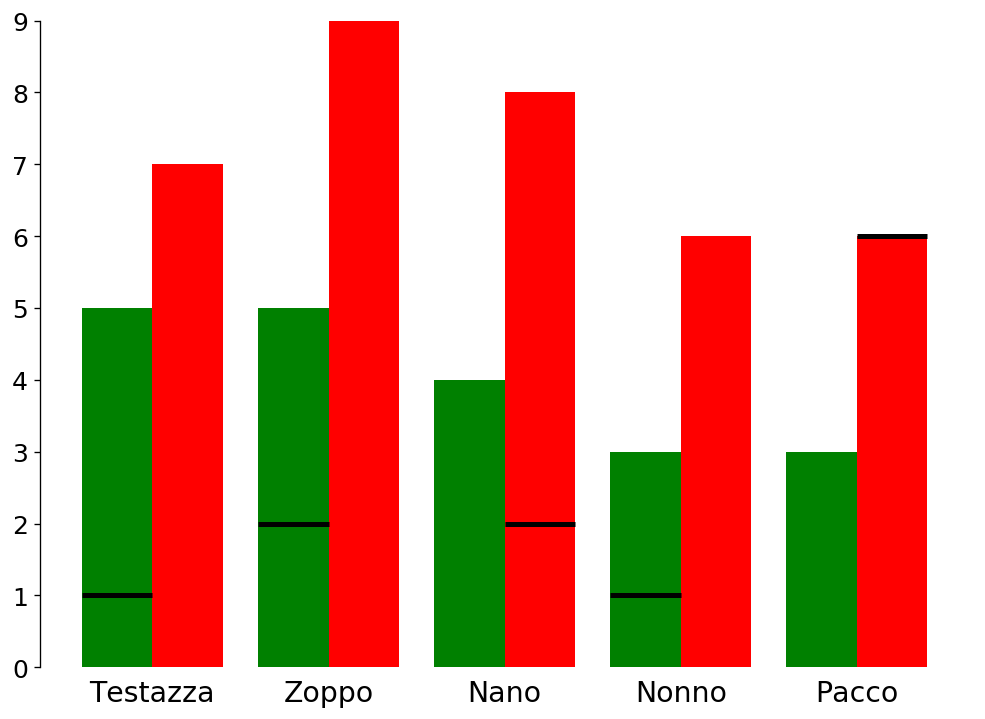
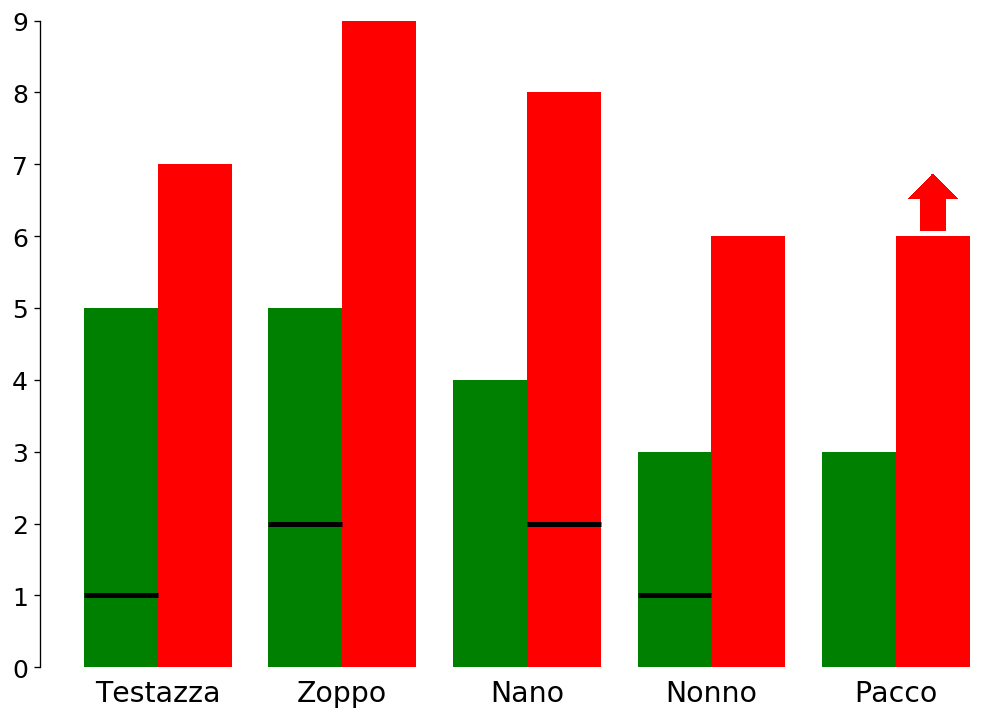
bug on series solved

diff --git a/messina_bet_bot.py b/messina_bet_bot.py
@@ -459,13 +459,11 @@ def play(bot, update, args):
 		return bot.send_message(chat_id=update.message.chat_id,
 								text=message)
 
-	#si guarda se nel DB ci sono ancora scommesse non confermate
 	not_conf_list = dbf.db_select(
 			table='predictions',
 			columns_in=['pred_user', 'pred_team1', 'pred_team2', 'pred_field',
 			            'pred_rawbet'],
 			where='pred_status = "Not Confirmed"')
-    #se è così lo comunico, specificando la scommesse non confermata
 	if not_conf_list:
 		bot.send_message(chat_id=update.message.chat_id,
 						 text='There are still Not Confirmed bets:')
@@ -522,7 +520,6 @@ def play(bot, update, args):
 	# mess_id will be used to update the message
 	mess_id = sent.message_id
 
-	#prende dal DB le scommesse che devono essere giocate e le mette in un tuple
 	matches_to_play = bf.create_matches_to_play(bet_id)
 
 	browser = sf.go_to_lottomatica()
@@ -530,7 +527,6 @@ def play(bot, update, args):
 	count = 0
 	for match in matches_to_play:
 		try:
-			#gioca le varie scommesse presenti in matches_to_play
 			basket_message = sf.add_bet_to_basket(browser, match, count,
 												  dynamic_message)
 			logger.info('PLAY - {}-{}  {} '.format(
@@ -573,15 +569,14 @@ def play(bot, update, args):
 
 	time.sleep(10)
 	money_after = sf.money(browser)
-	c = 1
-    #secondo me quella sotto è una cacata ma Polps non me la spiega
-#	c = count(1)
+	# c = 1
+	c = count(1)
 
 	while c < 10 and money_after != (money_before - euros):
 		logger.info('PLAY - Update budget after playing failed')
 		sf.refresh_money(browser)
 		time.sleep(2)
-		c = c+1
+		# c = c+1
 
 		# Money after playing the bet
 		money_after = sf.money(browser)

diff --git a/Classes.py b/Classes.py
@@ -354,12 +354,12 @@ def series():
 
 	series_pos = sorted([(name, players[name].best_series) for name in
 						 partecipants], key=lambda x: x[1][0], reverse=True)
-	green_arrows = [i for i, g in enumerate(series_pos) if g[1][1] == 'Ongoing']
+	green_arrows = [i for i, g in enumerate(series_pos) if g[1] == 'Ongoing']
 	names = [el[0] for el in series_pos]
 	series_pos = [el[1][0] for el in series_pos]
 
 	series_neg = [players[name].worst_series for name in names]
-	red_arrows = [i for i, g in enumerate(series_neg) if g[1][1] == 'Ongoing']
+	red_arrows = [i for i, g in enumerate(series_neg) if g[1] == 'Ongoing']
 	series_neg = [el[0] for el in series_neg]
 	abs_max = max((max(series_pos), max(series_neg)))
 

diff --git a/Functions/selenium_functions.py b/Functions/selenium_functions.py
@@ -558,7 +558,7 @@ def find_scommetti_box(browser):
 	button_location = './/div[@class="buttons-betslip"]'
 	button = browser.find_element_by_xpath(button_location)
 	scroll_to_element(browser, 'false', button)
-#	button.click()
+	# button.click()
 
 
 def fix_url(match_url):
